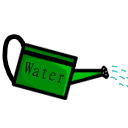
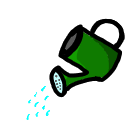
Updated the art and added a background

diff --git a/index.html b/index.html
@@ -32,7 +32,7 @@
             <div id="plantInfoUnhealthyDays"></div>
             <div id="plantInfoValue"></div>
             <div id="waterBtn"><img src="assets/watering_can.png" alt=""></div>
-            <div id="harvestBtn"></div>
+            <div id="harvestBtn"><img src="assets/harvest_tool.png" alt=""></div>
         </div>
     </div>
 

diff --git a/scripts/gameScene.js b/scripts/gameScene.js
@@ -274,7 +274,6 @@ export class GameScene extends Phaser.Scene {
     document.getElementById('plantInfoCurrentDays').textContent = "Days alive: " + plant.currentDays;
     document.getElementById('plantInfoUnhealthyDays').textContent = "Days unhealthy: " + plant.daysUnhealthy;
     document.getElementById('plantInfoValue').textContent = "Value: " + plant.value + " coins";
-    document.getElementById('harvestBtn').textContent = "Harvest";
     document.getElementById('plantInfo').classList.remove("hidden");
   }
 